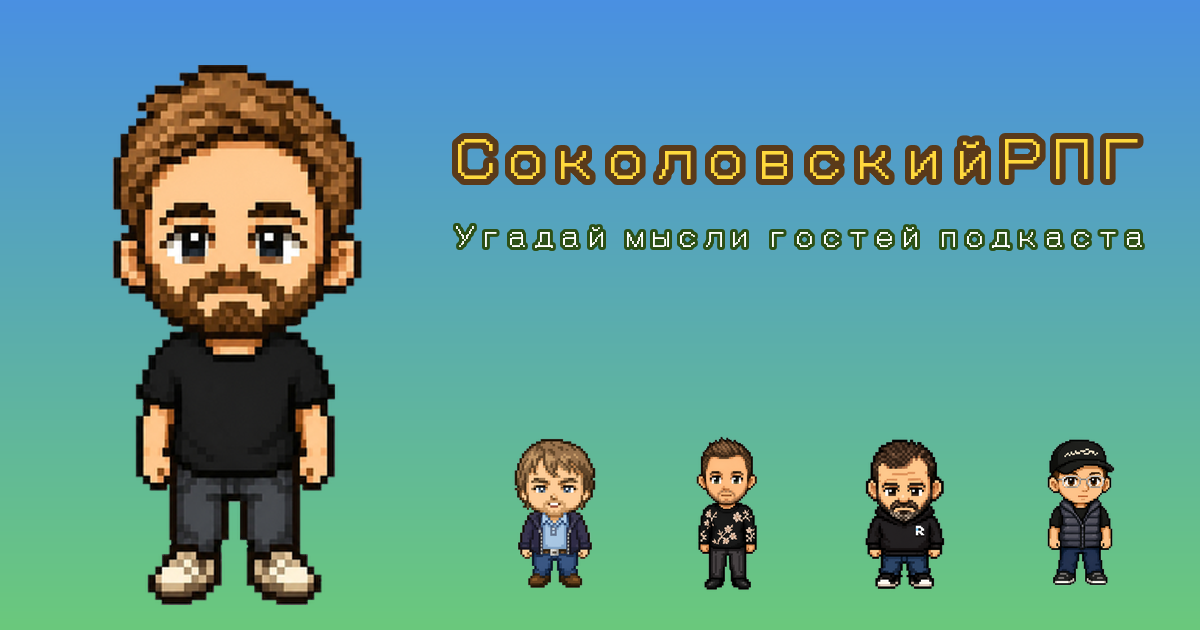
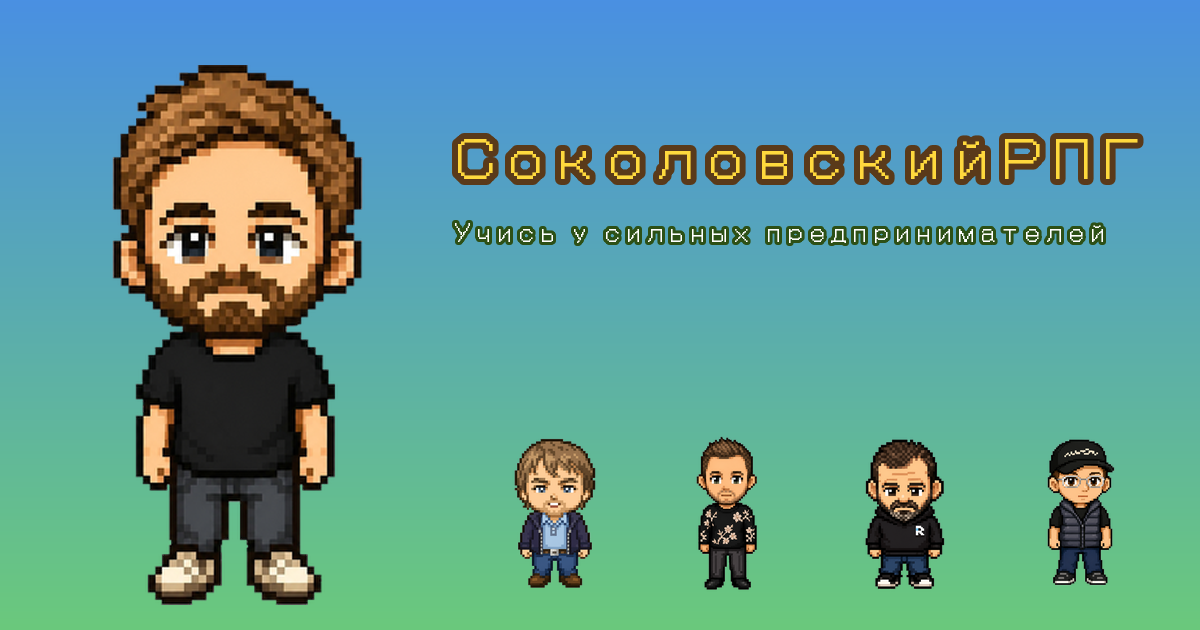
Слоган: «Учись у сильных» вместо «угадай мысли» (баннер + меню)

Changed region(s): [[0.37, 0.3317, 0.9558, 0.4222]]

diff --git a/src/game/scenes/MainMenu.js b/src/game/scenes/MainMenu.js
@@ -139,7 +139,7 @@ export class MainMenu extends Scene
             strokeThickness: 4
         }).setOrigin(0.5);
 
-        this.add.text(this.scale.width / 2, 280, 'Угадывай мысли гостей. Побеждай в боях. Лови всех.', {
+        this.add.text(this.scale.width / 2, 280, 'Учись у сильных. Побеждай в боях. Лови всех.', {
             fontFamily: '"Press Start 2P"',
             fontSize: '13px',
             color: '#FFFFFF',